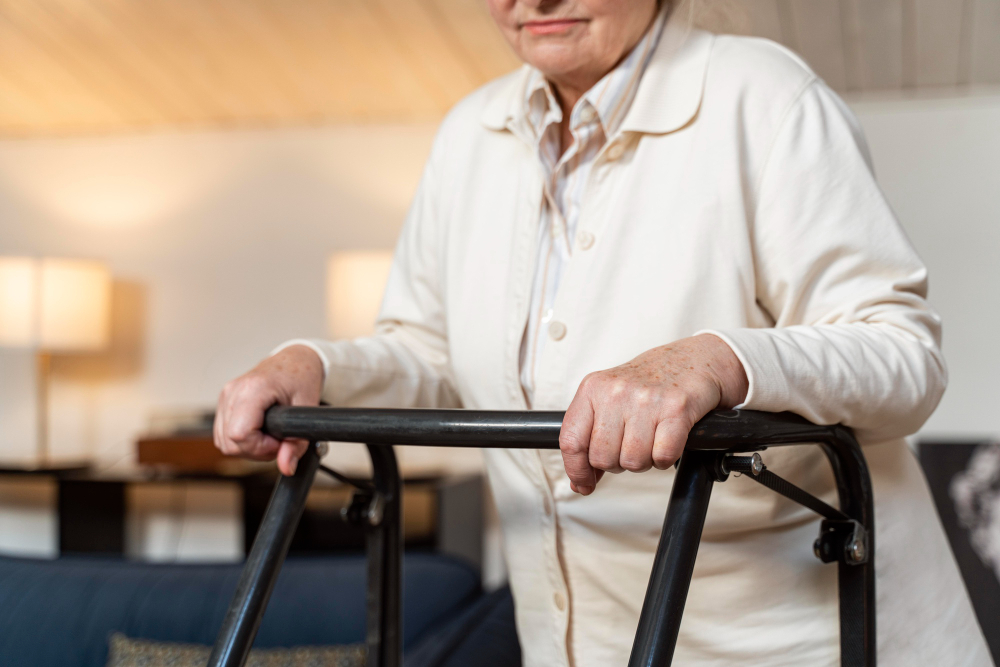
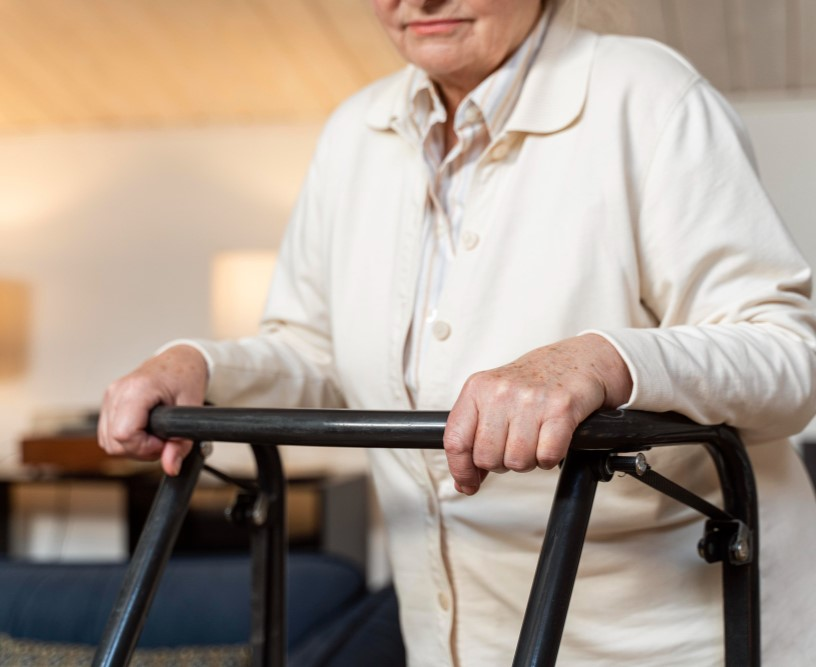
fix: trustbar padding, square care image, updated care.jpg

diff --git a/src/components/WhyChooseUs.tsx b/src/components/WhyChooseUs.tsx
@@ -101,13 +101,12 @@ export default function WhyChooseUs() {
             {/* Pink soft bg blob */}
             <div className="absolute inset-0 rounded-3xl bg-[#E8A4A0]/10 blur-2xl scale-105" />
 
-            <div className="relative w-full max-w-lg rounded-3xl overflow-hidden shadow-xl border border-[#E8A4A0]/20">
+            <div className="relative w-full max-w-lg aspect-square rounded-3xl overflow-hidden shadow-xl border border-[#E8A4A0]/20">
               <Image
                 src="/images/care.jpg"
                 alt="Caring for loved ones at home"
-                width={600}
-                height={450}
-                className="object-cover w-full h-auto"
+                fill
+                className="object-cover"
               />
               {/* Subtle overlay gradient */}
               <div className="absolute inset-0 bg-gradient-to-t from-[#1E293B]/10 to-transparent" />

diff --git a/src/components/TrustBar.tsx b/src/components/TrustBar.tsx
@@ -28,7 +28,7 @@ const trustItems = [
 
 export default function TrustBar() {
   return (
-    <section className="bg-[#5B8FB9] py-10 relative z-10">
+    <section className="bg-[#5B8FB9] pt-16 pb-10 relative z-10">
       <div className="max-w-7xl mx-auto px-4 sm:px-6 lg:px-8">
         <div className="grid grid-cols-2 lg:grid-cols-4 gap-6 lg:gap-4">
           {trustItems.map((item, i) => {
